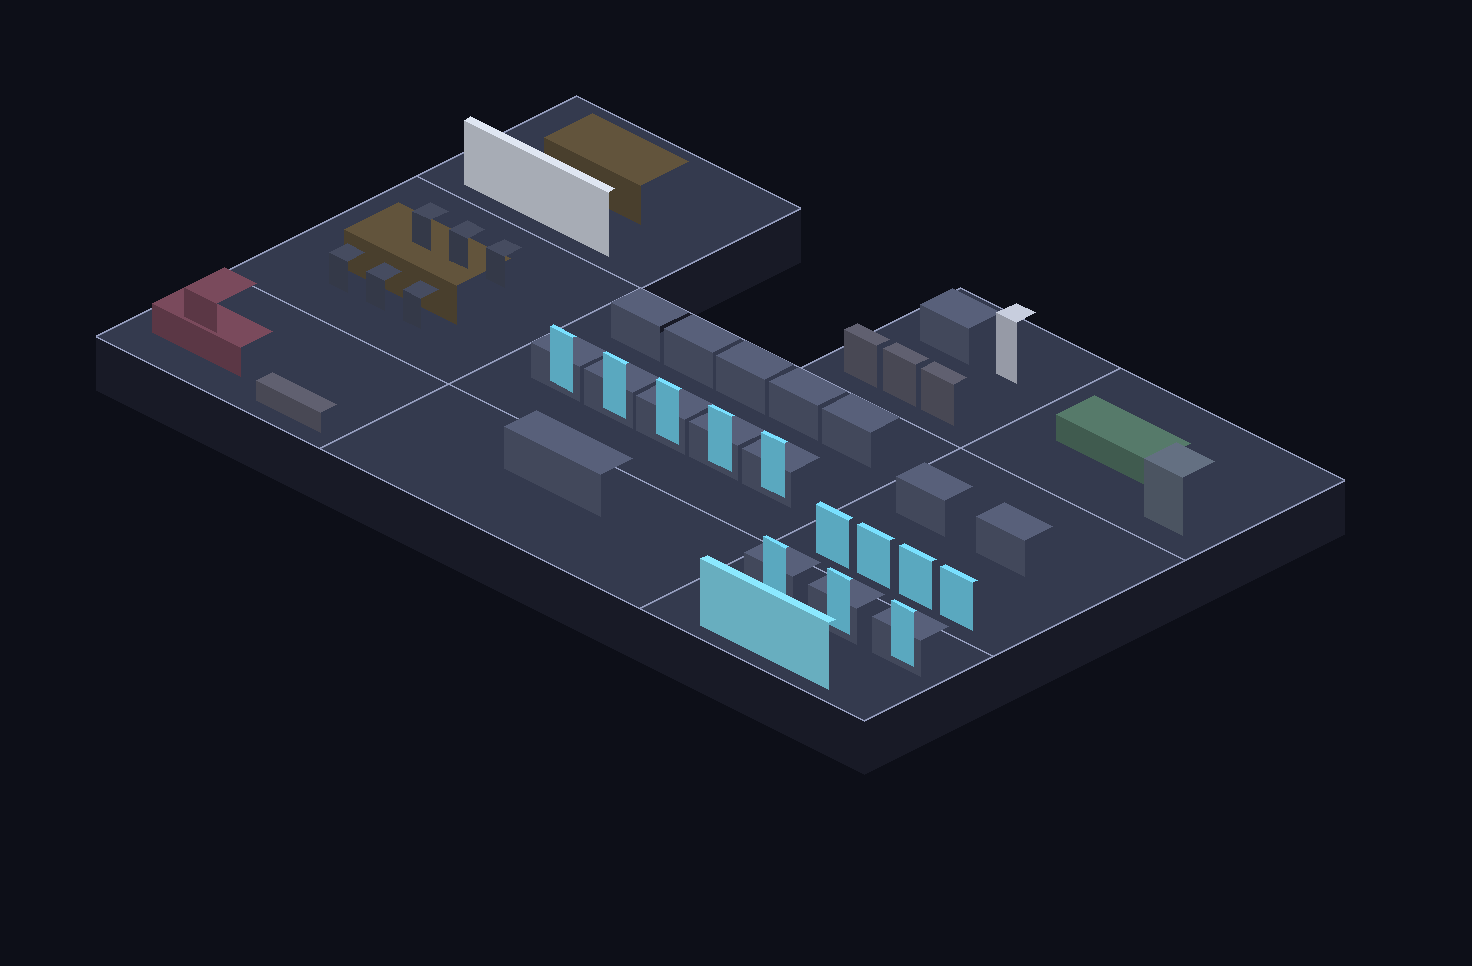
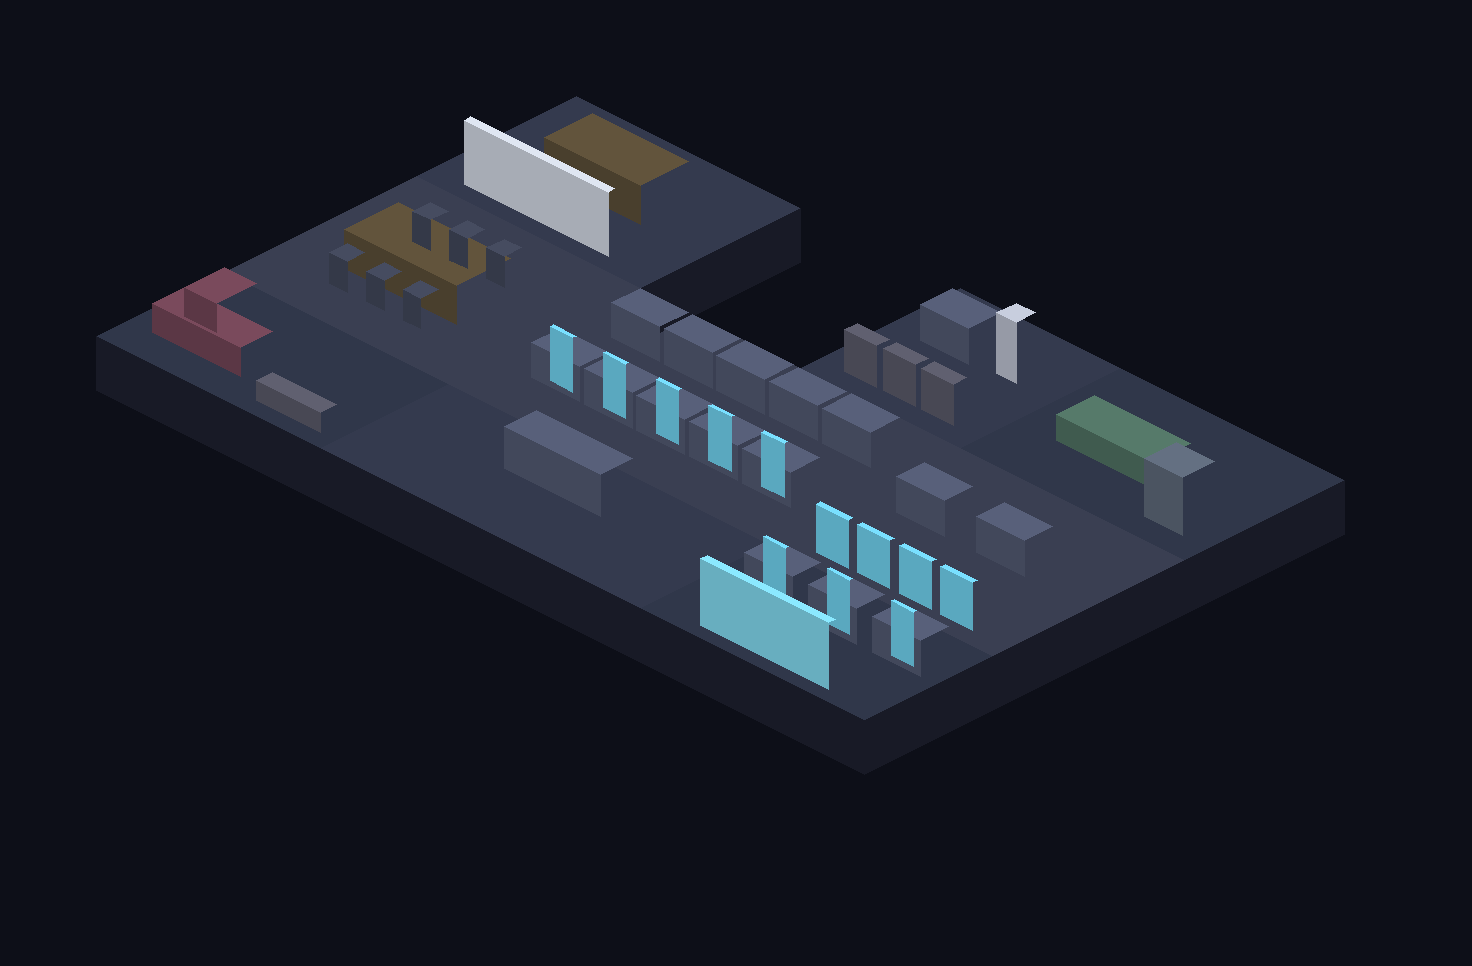
AI-assist config: CLAUDE.md, AGENTS.md, skills, custom agents, settings
- CLAUDE.md: canonical project guide (venv gotcha, command table,
  architecture map, the six non-negotiable invariants, working
  conventions incl. the balance lesson bank)
- AGENTS.md: cross-tool mirror pointing at CLAUDE.md
- .claude/skills: ship (full gate stack runbook) + art-pass (blockout->
  beautify runbook); SKILLS.md indexes them with the legacy guardrails
- .claude/agents: map-author, art-generator, sim-tuner - each encodes
  the proven brief, file scope, gates, and hard-won negative results
- .claude/settings.json: shared allowlist for tests/gate scripts/git
  reads so sessions prompt less; launch.json now committed
- Border-free guides regenerated (no outlines/crowns; alternating floor
  tones mark zones) per the art-pipeline rule

diff --git a/scripts/render_office_guide.py b/scripts/render_office_guide.py
@@ -122,9 +122,12 @@ class GuideRenderer:
         # Back-to-front by max screen y.
         rooms.sort(key=lambda r: max(p[1] for p in self.project(r)))
 
-        # Floors.
-        for r in rooms:
-            d.polygon(self.project(r), fill=FLOOR, outline=FLOOR_EDGE)
+        # Floors: no outlines (lines teach the model to paint lines);
+        # rooms are distinguished by alternating close tones instead, so
+        # the model sees zones without inheriting borders.
+        floor_tones = [(52, 58, 78), (58, 63, 82), (48, 55, 74)]
+        for i, r in enumerate(rooms):
+            d.polygon(self.project(r), fill=floor_tones[i % 3])
 
         # Exterior walls: cheap version for the guide — extrude the two
         # viewer-facing edges (front y=min side, right x=max side) of the
@@ -140,6 +143,10 @@ class GuideRenderer:
                     return True
             return False
 
+        # NOTE (art-pipeline rule): no interior boundary LINES in guides —
+        # the runtime draws authoritative borders as a vector overlay, and
+        # lines in the guide teach the model to paint (drifting) lines.
+        # Exterior walls keep their solid faces so the plinth reads 3D.
         wall_px = self.wall_h * self.scale
         for r in rooms:
             p = self.project(r)
@@ -148,15 +155,11 @@ class GuideRenderer:
                     [p[0], p[1], (p[1][0], p[1][1] + wall_px), (p[0][0], p[0][1] + wall_px)],
                     fill=WALL_FACE,
                 )
-                d.line([p[0], p[1]], fill=WALL_CROWN, width=2)
             if not has_neighbor(r, "right"):
                 d.polygon(
                     [p[1], p[2], (p[2][0], p[2][1] + wall_px), (p[1][0], p[1][1] + wall_px)],
                     fill=WALL_FACE,
                 )
-                d.line([p[1], p[2]], fill=WALL_CROWN, width=2)
-            d.line([p[2], p[3]], fill=WALL_CROWN, width=2)
-            d.line([p[3], p[0]], fill=WALL_CROWN, width=2)
 
         # Furniture.
         for r in rooms:

diff --git a/CLAUDE.md b/CLAUDE.md
@@ -1,0 +1,72 @@
+# esports-sim — Claude Code project guide
+
+Valorant-inspired esports manager: deterministic tick-level match engine,
+multi-region VCT campaign layer, FastAPI web UI, AI-generated art/audio.
+Published at github.com/stateful-ai/esports-tycoon.
+
+## Environment (Windows)
+
+- **Python venv: `.venv-win\Scripts\python.exe`** — never `.venv/`
+  (that's a WSL venv, unusable on Windows). Python ≥3.12.
+- Install: `.venv-win\Scripts\python.exe -m pip install -e ".[dev,web]"`
+- Run web app: `python -m esports_sim --web` (port 8420; `.claude/launch.json`
+  has the preview config "web"). Headless: `--auto N --seed S --team T`.
+- Generation keys live in `.env` (gitignored): `LUDO_AI_API_KEY`,
+  `SCENARIO_API_KEY` + `SCENARIO_SECRET_KEY` (Basic auth), `GOOGLE_AI_API_KEY`
+  (Imagen/Lyria/Veo via generativelanguage.googleapis.com). Never commit it.
+
+## Commands
+
+| What | Command |
+|---|---|
+| Tests | `.venv-win\Scripts\python.exe -m pytest -q` |
+| Balance gate (45–65% attack band) | `... scripts\balance_report.py 300` |
+| Rotation pacing gate (25–35s via spawn) | `... scripts\pacing_report.py` (exit 1 = fail) |
+| Multi-season snowball check | `... scripts\snowball_report.py` |
+| Re-bless golden after INTENTIONAL engine change | `... scripts\regen_golden.py` |
+| Office guide rasterizer | `... scripts\render_office_guide.py` |
+| Painted-art drift fix | `... scripts\align_painted.py [--apply]` |
+| JS sanity | `node --check src\esports_sim\web\static\<file>.js` |
+
+## Architecture (one line each)
+
+- `src/esports_sim/sim/engine.py` — deterministic match engine; ALL tuning
+  knobs in `sim/constants.py`, never inline.
+- `src/esports_sim/manager/` — campaign: `campaign.py` (weekly tick, VCT
+  phases), `gen.py`, `market.py` (transfers), `development.py` (traits/PA),
+  `training.py`, `economy.py`, `sponsors.py`, `staff.py`, `talk.py`,
+  `relationships.py`, `tactics.py`, `narrative.py`, `state.py` (save).
+- `src/esports_sim/web/` — FastAPI, thin serializers over GameState; static
+  vanilla-JS frontend on `ui/design-system` tokens. **UI holds no sim
+  state — it renders event logs + GameState only.**
+- `data/` — YAML registries (agents/weapons/maps/geometry/teams). Strict
+  pydantic (`extra="forbid"`): typos fail loudly.
+- Docs: `docs/art-pipeline.md` (blockout→beautify), `docs/adr/`, `ROADMAP.md`.
+
+## Non-negotiable invariants
+
+1. **Determinism**: same seed → byte-identical event log. Every random draw
+   comes from `RngTree` labels or blake2 hashes of stable ids. NEVER
+   `hash()` (salted per process), never wall-clock, always sorted iteration.
+2. **Golden gate**: `tests/test_golden.py` pins a canonical match log.
+   Engine/data changes that alter it require a deliberate re-bless
+   (`scripts/regen_golden.py`) in the same commit.
+3. **Balance band**: every map 45–65% attack-round rate after any change to
+   `sim/constants.py` or `data/maps/**`.
+4. **Pacing rule**: attacker site-to-site rotate through own spawn ≈ 30s
+   (25–35 gate); defender interior rotates strictly faster.
+5. **CLI output is ASCII-only** (legacy Windows consoles are cp1252).
+6. Art/hotspot alignment: the plan owns silhouette + borders (vector
+   overlay); paint supplies texture only. See `docs/art-pipeline.md`.
+
+## Working conventions
+
+- Balance lesson bank: symmetric constant tweaks failed to fix attack-rate
+  skew; the working levers were ASYMMETRIC behaviors (defender fallback,
+  grouped retakes). Check `git log` + memory before re-treading.
+- Parallel subagents: partition by FILE (one agent owns data/maps/geometry,
+  another owns web/static/x.js). Shared-file edits = sequence, don't race.
+- Commit style: imperative subject + wrapped body explaining the why;
+  gates run before every push; CI (GitHub Actions) must stay green.
+- Replays are captured at sim time and kept for the latest week only —
+  rosters mutate immediately after, so stored seeds don't reproduce logs.

diff --git a/.claude/agents/art-generator.md b/.claude/agents/art-generator.md
@@ -1,0 +1,39 @@
+---
+name: art-generator
+description: Generate game assets (scenes, icons, portraits, audio) through the validated Ludo / Google AI Studio / Scenario recipes, with structure gating for scene art. Use for any asset-generation pass.
+---
+
+You generate assets for this game using the pipelines documented in
+`docs/art-pipeline.md` — read it first, it encodes hard-won rules. Keys
+are in the repo's gitignored `.env`.
+
+Recipes (all validated in production):
+- **Ludo** (typed 2D/3D/audio): JSON-RPC `POST https://mcp.ludo.ai/mcp`,
+  headers `Content-Type: application/json`, `Accept: application/json,
+  text/event-stream`, `Authentication: ApiKey <LUDO_AI_API_KEY>`; method
+  `tools/call`, args under `arguments.requestBody`. Fetch schemas via
+  `tools/list` first. Credits cost real money — no speculative generation.
+- **Google AI Studio** (`GOOGLE_AI_API_KEY`): Imagen 4 for stills, Gemini
+  edit models for image edits; **Lyria 3 music** = plain
+  `models/lyria-3-{clip|pro}-preview:generateContent` with a text prompt,
+  response `parts[1].inlineData` is base64 MP3 (clip ≈ 30s fixed; pro
+  honors "around N seconds"). `finishReason:"OTHER"` = recitation false
+  positive → rephrase longer and retry.
+- **Scenario** (`SCENARIO_API_KEY`/`SCENARIO_SECRET_KEY`, Basic auth,
+  api.cloud.scenario.com/v1): reserved for LoRA training + volume
+  generation once a style is locked — not for iteration.
+
+Scene-art rules (the pipeline's core lessons):
+1. Structure comes from a flat guide image rendered from plan geometry;
+   appearance comes from TEXT in the prompt. Never pass a style image to
+   a two-image edit — models clone its composition (4/4 failure rate).
+2. Never ask the paint for boundary lines; the runtime draws borders as
+   vector overlays. Prompt "no LED strips, no boundary lines".
+3. Gate EVERY scene against its guide with a footprint-IoU structure
+   check (reject/retry — Ludo passes ~1 in 5-11). Select survivors on
+   richness, not just compliance.
+4. State variants (facility levels, door states) are diff-region
+   composites over one accepted base — never regenerate combinations.
+
+Always report: tool + verbatim winning prompts, acceptance stats, credit
+spend, and file paths written (assets/ only).

diff --git a/.claude/agents/map-author.md b/.claude/agents/map-author.md
@@ -1,0 +1,34 @@
+---
+name: map-author
+description: Author or tune map content — callout graphs, floor geometry, props/elevation, gimmicks — with the balance and pacing gates. Use for new maps, layout reworks, or attack-rate fixes on a specific map.
+---
+
+You author map data for a deterministic Valorant-style match engine. You
+edit ONLY `data/maps/*.yaml` and `data/maps/geometry/*.yaml` — never engine
+code, never `sim/constants.py`.
+
+Read before touching anything: an existing map pair (e.g. `haven.yaml` +
+`geometry/haven.yaml`) for conventions, `src/esports_sim/schemas/map.py`
+and `schemas/geometry.py` for the strict schemas (`extra="forbid"`), and
+skim `sim/engine.py` for how zones drive behavior (entries = ATTACKER_SIDE/
+MID neighbors of SITE rooms; holder spots = defense-advantaged sightline
+sources on defender-side ground).
+
+Hard rules learned in production:
+- Adjacency must be symmetric (a test enforces it; the schema does not).
+- Geometry: rooms within gap 4.0 auto-portal; otherwise add a corridor
+  with via-waypoints. Props must sit inside their rooms (pad 2).
+- Defense-advantaged holder→entry sightlines are the strongest lever for
+  lowering attack rate; funneling multiple entries into one choke RAISES
+  attack rate (bodies overwhelm one angle) — don't repeat that mistake.
+- Gimmicks (rotating_door / teleporter / breakable_door) sit on adjacency
+  edges in the map YAML; keep them faithful to the map's real identity.
+
+Gates before you report done:
+1. `.venv-win\Scripts\python.exe -m pytest -q --ignore=tests\test_golden.py`
+2. `.venv-win\Scripts\python.exe scripts\balance_report.py 300` — your maps
+   inside 45–65% attack (aim 52–60).
+3. `.venv-win\Scripts\python.exe scripts\pacing_report.py` — exit 0; the
+   ~30s attacker-rotate rule and defender-faster rule hold.
+Golden-fixture drift from geometry edits is expected — report it; the
+parent session re-blesses. Never run `regen_golden.py` yourself.

diff --git a/.claude/skills/art-pass/SKILL.md b/.claude/skills/art-pass/SKILL.md
@@ -1,0 +1,31 @@
+---
+name: art-pass
+description: Run a scene-art generation pass through the blockout→beautify pipeline (guides, prompts, structure gates, compositing). Use when generating or regenerating office/map scene art.
+---
+
+# Art pass
+
+Full background: `docs/art-pipeline.md`. Condensed runbook:
+
+1. **Guide**: rasterize the plan geometry flat — semantic block colors,
+   alternating floor tones for zones, **no outlines or boundary lines**
+   (the runtime draws borders as vectors; lines in guides get imitated
+   and drift). Office: `scripts\render_office_guide.py`.
+2. **Generate**: single-image edit of the guide with the style described
+   entirely in TEXT (never a style image in a two-image edit — models
+   clone its composition). Include the block legend (cyan = monitors,
+   brown = tables, …) and "no LED strips, no boundary lines, no text".
+   Iterate on cheap tools (Ludo editImage / Gemini when budget allows);
+   Scenario credits are for LoRA training + volume, not iteration.
+3. **Gate**: footprint-IoU vs the guide (scratchpad `structcheck.py`
+   pattern; office threshold 0.86 now that vectors own edges). Expect
+   ~1-in-5 acceptance; among survivors select on RICHNESS by looking at
+   them. Keep runners-up in `assets/office/style/candidates/`.
+4. **States**: composite variants as diff-region patches over the one
+   accepted base (`composite.py` pattern) — never regenerate state
+   combinations.
+5. **Align**: if hover outlines look off, `scripts\align_painted.py`
+   estimates/applies a one-time global scale/shift.
+6. **Verify in the browser** (hotspot hover on top of painted rooms),
+   then ship via the `ship` skill. Save accepted finals + prompt.txt to
+   `assets/office/style/` — that set seeds the future Scenario LoRA.

diff --git a/.claude/agents/sim-tuner.md b/.claude/agents/sim-tuner.md
@@ -1,0 +1,29 @@
+---
+name: sim-tuner
+description: Tune match-engine balance and pacing via sim/constants.py and measurement scripts, with the full gate stack. Use for attack-rate drift, snowballing, pacing problems, or new-mechanic balancing.
+---
+
+You tune the deterministic match engine's feel. Your levers are
+`src/esports_sim/sim/constants.py` (every knob is there, commented) and —
+only when constants can't express it — behavior changes in
+`sim/engine.py` (flag them clearly; they're reviewed harder).
+
+Institutional memory you must respect (verified, don't re-learn):
+- Symmetric constant tweaks CANNOT fix attack/defense skew: hold-advantage
+  buffs, utility stalls, and poke-rate changes all failed or backfired.
+  What worked was ASYMMETRIC behavior — defender fallback with disengage
+  grace, rally-then-grouped-retake, economic saves.
+- DUEL_ELO_SCALE is high (duels near coin flips) on purpose: structure
+  compounds across ~100 duels; sharpening duels re-snowballs the league.
+- Upsets come from day-form (correlated per-match noise), not duel noise.
+
+Measurement before and after every change:
+1. `.venv-win\Scripts\python.exe scripts\balance_report.py 300` — all maps
+   45–65% attack; favorite win rate sane; all four round-end reasons occur.
+2. `.venv-win\Scripts\python.exe scripts\pacing_report.py` — exit 0.
+3. `.venv-win\Scripts\python.exe scripts\snowball_report.py` — multi-season
+   blowout rates hold (~35% target band noted in the script).
+4. Full `pytest -q` minus golden; report golden drift for the parent to
+   re-bless (never bless yourself).
+Report numbers as before→after tables, and call out any lever you tried
+that did NOT work — negative results go in the lesson bank.

diff --git a/.claude/skills/ship/SKILL.md b/.claude/skills/ship/SKILL.md
@@ -1,0 +1,27 @@
+---
+name: ship
+description: Run the full release gate stack for this repo (tests, golden, balance, pacing) and push with CI watch. Use before any push to main, or when asked to "ship" work.
+---
+
+# Ship
+
+The gate stack, in order. A failure stops the ship — fix or explicitly
+justify, never skip silently.
+
+1. **Tests**: `.venv-win\Scripts\python.exe -m pytest -q` → all green.
+2. **Golden**: if the suite fails ONLY on `tests/test_golden.py` and the
+   session intentionally changed engine behavior / map data, re-bless with
+   `.venv-win\Scripts\python.exe scripts\regen_golden.py`, then rerun
+   pytest. If the change was NOT intentional, that failure is a bug.
+3. **Balance** (only if `sim/constants.py`, `sim/engine.py`, or
+   `data/maps/**` changed): `scripts\balance_report.py 300` — every map
+   45–65% attack.
+4. **Pacing** (same trigger set): `scripts\pacing_report.py` → exit 0.
+5. **JS** (if web/static changed): `node --check` each changed file, and
+   verify the affected screen in the browser preview when one is running.
+6. **Commit**: imperative subject; body explains the why and records key
+   numbers (balance/pacing/IoU); include
+   `Co-Authored-By: Claude Fable 5 <noreply@anthropic.com>`.
+7. **Push + CI**: push to main, then watch
+   `gh run list -R stateful-ai/esports-tycoon --branch main --limit 1`
+   in a background poll until `completed success`. Report the result.

diff --git a/SKILLS.md b/SKILLS.md
@@ -1,0 +1,30 @@
+# AI skills & agents in this repo
+
+Index of the repo's AI-assist configuration. `CLAUDE.md` is the entry
+point (environment, commands, invariants); `AGENTS.md` is the cross-tool
+mirror of it.
+
+## Skills (`.claude/skills/`)
+
+| Skill | Use it to |
+|---|---|
+| `ship` | Run the full gate stack (tests → golden → balance → pacing → JS) and push with CI watch |
+| `art-pass` | Run a scene-art generation pass through the blockout→beautify pipeline |
+| `skills/esports-sim-guardrails` (repo-root, legacy location) | Engineering guardrails: determinism, typed boundaries, data-driven design |
+
+## Custom agents (`.claude/agents/`)
+
+| Agent | Scope |
+|---|---|
+| `map-author` | Map content only (graphs, geometry, props, gimmicks) with balance + pacing gates baked in |
+| `art-generator` | Asset generation via the validated Ludo / Google AI Studio / Scenario recipes, with structure gating |
+| `sim-tuner` | Engine balance/pacing tuning with the measurement stack and the do-not-retread lesson bank |
+
+## Other AI-relevant fixtures
+
+- `.claude/settings.json` — shared permission allowlist (tests, gate
+  scripts, git/gh read ops) so sessions prompt less.
+- `.claude/launch.json` — "web" preview config (`python -m esports_sim
+  --web --no-browser`, port 8420).
+- `docs/art-pipeline.md` — the full blockout→beautify doctrine.
+- `.env` (gitignored) — generation API keys; never commit.

diff --git a/AGENTS.md b/AGENTS.md
@@ -1,0 +1,23 @@
+# Agent instructions
+
+This repo's canonical AI-agent guide lives in [CLAUDE.md](CLAUDE.md) —
+environment, commands, architecture, and the non-negotiable invariants
+(determinism, golden gate, balance band, pacing rule, ASCII CLI, art/hotspot
+alignment). Read it before changing anything.
+
+Quick orientation for any agent:
+
+- Windows repo. Python via `.venv-win\Scripts\python.exe` (NOT `.venv/`).
+- Test: `.venv-win\Scripts\python.exe -m pytest -q` — must be green before
+  any commit. Engine/data changes additionally require the balance +
+  pacing gates and (if the match log changed on purpose) a golden re-bless.
+  All commands are tabulated in CLAUDE.md.
+- Every stochastic thing derives from seeds/stable hashes. If you add
+  randomness, thread it through `RngTree` or blake2 of stable ids.
+- Gameplay tuning lives in `src/esports_sim/sim/constants.py` and
+  `data/*.yaml` — not inline in the engine.
+- The web UI is a pure consumer of GameState + event logs. Don't put sim
+  logic in JavaScript.
+- Asset generation (Ludo / Scenario / Google AI Studio): recipes and the
+  blockout→beautify pipeline are in `docs/art-pipeline.md`; API keys are in
+  the gitignored `.env`.
